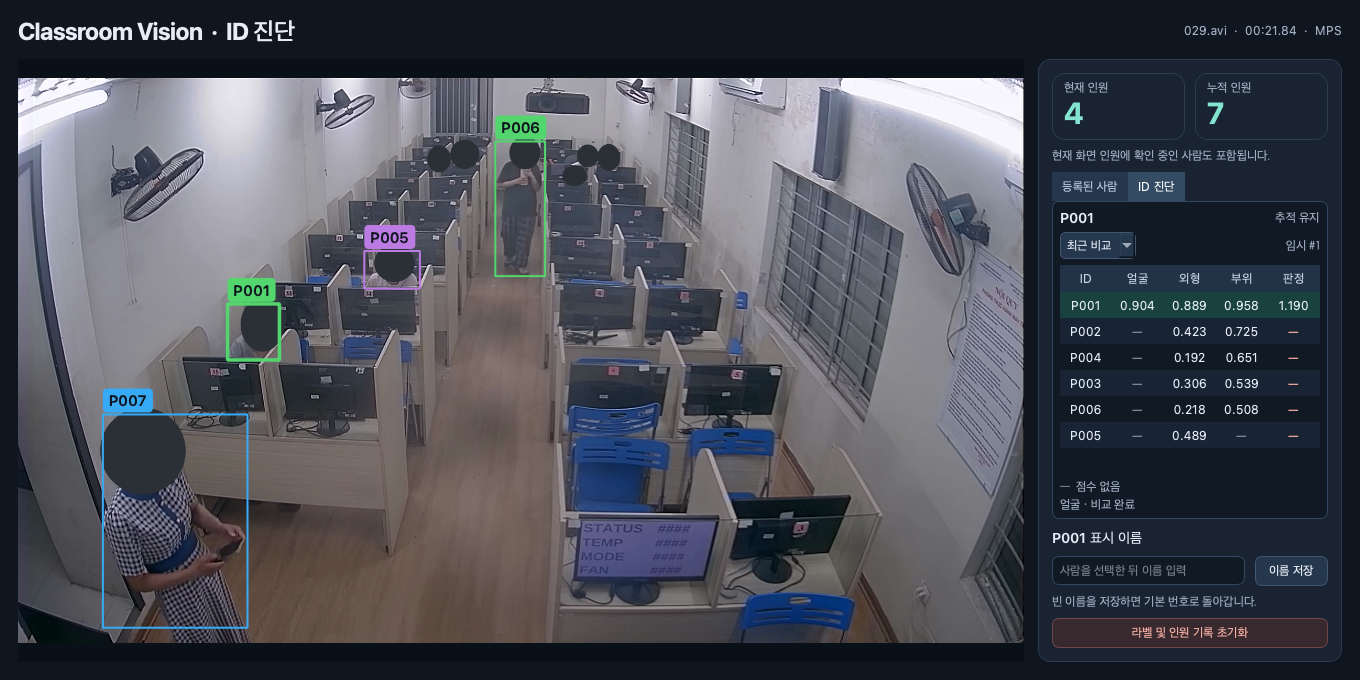
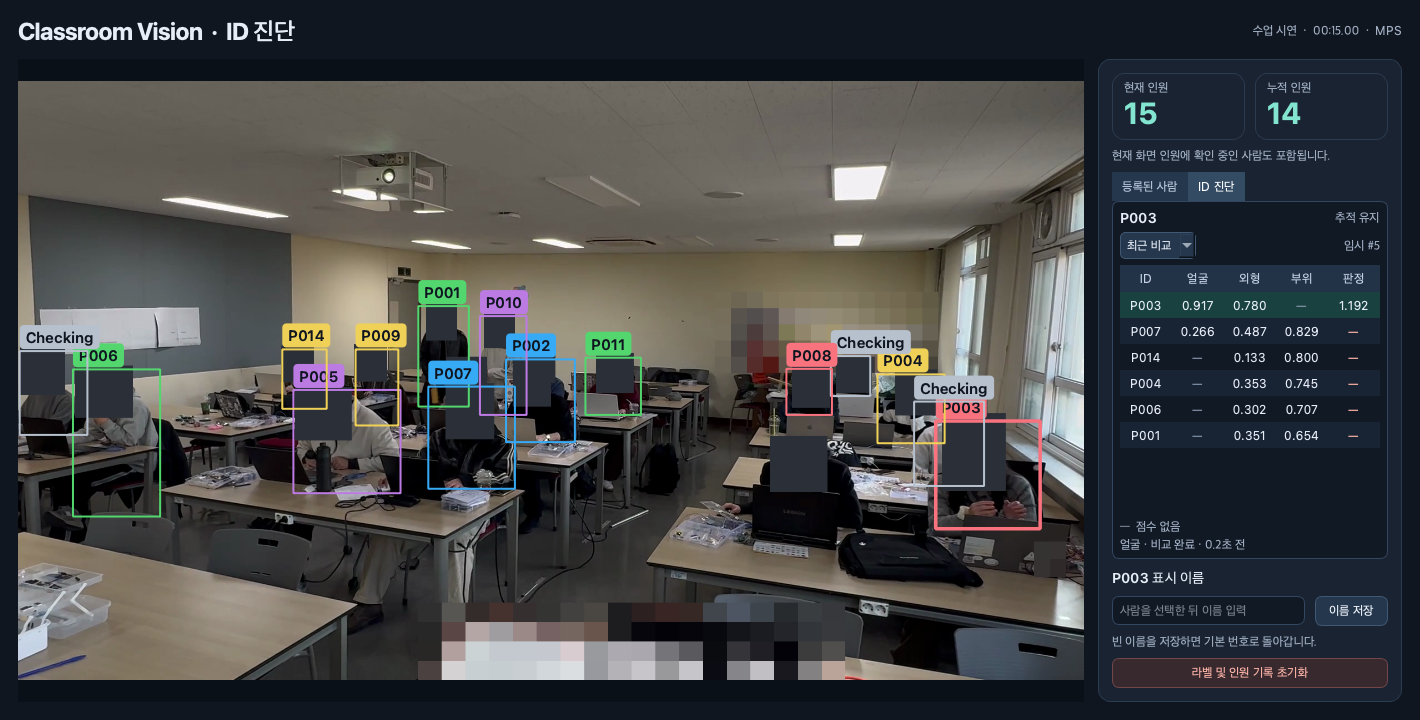
docs: Refresh classroom tracking demo

diff --git a/README.md b/README.md
@@ -9,7 +9,7 @@
   <img src="docs/assets/tracking-demo.png" alt="Classroom Vision 앱의 사람 추적 박스, 인원 집계, ID 진단 비교표" width="920">
 </p>
 
-<p align="center"><sub>실제 앱 시연 · AIRC-SMARTCLASS 029.avi의 21.84초 화면. 얼굴은 추론 후 시연 이미지에서 가렸습니다.</sub></p>
+<p align="center"><sub>실제 앱 시연 · 팀 제공 수업 영상 IMG_6463.MOV의 15초 지점. 공개용 화면에서는 얼굴을 가렸습니다.</sub></p>
 
 ## 프로젝트 목표
 
@@ -85,7 +85,6 @@ BPBreID의 HRNet 코드에는 [Hippocratic License 3.0](person_tracking/vendor/L
 YuNet과 SFace의 출처 및 이용 조건은 [얼굴 모델 안내](person_tracking/vendor/NOTICE.face-models.md)에
 정리했습니다.
 
-시연 이미지의 영상 출처는 Van Anh Nguyen Thi, Tu Chu Pham Dinh, Son Le Hoang의
-[AIRC-SMARTCLASS Part 2](https://data.mendeley.com/datasets/fw5hs57z78/1)입니다.
-원본의 [CC BY 4.0](https://creativecommons.org/licenses/by/4.0/)에 따라 출처를 표시했으며,
-프레임에 추적 UI를 덧씌우고 얼굴을 가렸습니다.
+영상 검증에 사용한 `029.avi`는 Van Anh Nguyen Thi, Tu Chu Pham Dinh, Son Le Hoang의
+[AIRC-SMARTCLASS Part 2](https://data.mendeley.com/datasets/fw5hs57z78/1)에 포함돼 있습니다.
+데이터셋은 [CC BY 4.0](https://creativecommons.org/licenses/by/4.0/)으로 공개됐습니다.
